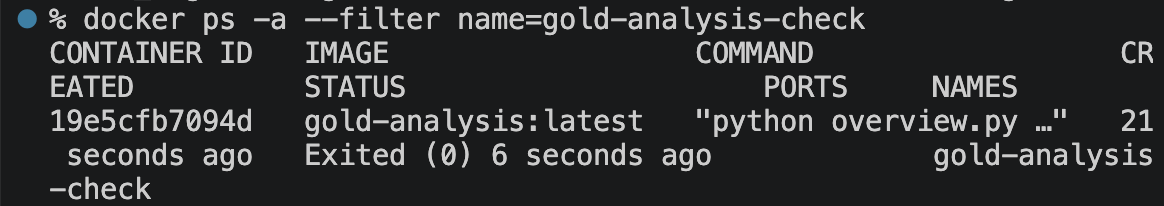
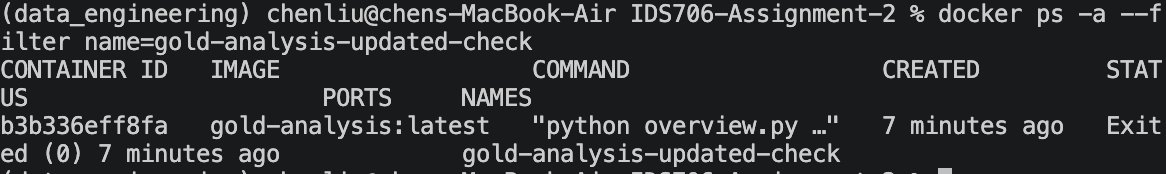
Add daily return analysis, tests, and final project documentation

diff --git a/overview.py b/overview.py
@@ -9,6 +9,7 @@ from gold_analysis import (
     filter_above_average,
     yearly_summary,
     train_and_evaluate,
+    calculate_daily_returns,
 )
 
 
@@ -55,6 +56,42 @@ def plot_model_results(results, output_path):
     ax.legend()
     ax.grid(alpha=0.3)
 
+    fig.tight_layout()
+    fig.savefig(output_path, dpi=300)
+    plt.close(fig)
+
+
+def plot_return_correlations(correlations, output_path):
+    """Save a heatmap of daily price return correlations."""
+    fig, ax = plt.subplots(figsize=(7, 6))
+    heatmap = ax.imshow(
+        correlations.to_numpy(),
+        cmap="RdBu_r",
+        vmin=-1,
+        vmax=1,
+    )
+
+    labels = correlations.columns.tolist()
+    ax.set_xticks(range(len(labels)))
+    ax.set_xticklabels(labels)
+    ax.set_yticks(range(len(labels)))
+    ax.set_yticklabels(labels)
+
+    for row in range(len(labels)):
+        for column in range(len(labels)):
+            value = correlations.iloc[row, column]
+            text_color = "white" if abs(value) >= 0.6 else "black"
+            ax.text(
+                column,
+                row,
+                f"{value:.3f}",
+                ha="center",
+                va="center",
+                color=text_color,
+            )
+
+    ax.set_title("Daily Price Return Correlations")
+    fig.colorbar(heatmap, ax=ax, label="Pearson correlation")
     fig.tight_layout()
     fig.savefig(output_path, dpi=300)
     plt.close(fig)
@@ -120,6 +157,18 @@ def main():
     print(round(results["intercept"], 3))
 
     args.output_dir.mkdir(parents=True, exist_ok=True)
+    daily_returns = calculate_daily_returns(gold)
+    return_correlations = daily_returns.corr()
+
+    print("\nDaily return correlations:")
+    print(return_correlations.round(3))
+
+    daily_returns.to_csv(args.output_dir / "daily_returns.csv")
+    return_correlations.to_csv(args.output_dir / "daily_return_correlations.csv")
+    plot_return_correlations(
+        return_correlations,
+        args.output_dir / "daily_return_correlations.png",
+    )
     plot_price_trend(gold, args.output_dir / "gld_price_trend.png")
     plot_model_results(results, args.output_dir / "actual_vs_estimated_gld.png")
 

diff --git a/tests/test_gold_analysis.py b/tests/test_gold_analysis.py
@@ -7,6 +7,7 @@ from gold_analysis import (
     filter_above_average,
     yearly_summary,
     train_and_evaluate,
+    calculate_daily_returns,
 )
 
 
@@ -173,3 +174,54 @@ def test_model_rejects_too_small_training_or_test_set(train_fraction):
 
     with pytest.raises(ValueError, match="at least two rows"):
         train_and_evaluate(data, train_fraction=train_fraction)
+
+
+def test_daily_returns_calculates_correctly_and_sorts_dates():
+    data = make_data(
+        ["2020-01-03", "2020-01-01", "2020-01-02"],
+        [99.0, 100.0, 110.0],
+    )
+    data["Date"] = pd.to_datetime(data["Date"])
+    original = data.copy(deep=True)
+
+    result = calculate_daily_returns(data)
+
+    assert result.index.tolist() == [
+        pd.Timestamp("2020-01-02"),
+        pd.Timestamp("2020-01-03"),
+    ]
+    assert result.columns.tolist() == ["GLD", "SPX", "USO", "SLV"]
+
+    # GLD moves from 100 to 110 (+10%), then to 99 (-10%).
+    assert result["GLD"].tolist() == pytest.approx([0.1, -0.1])
+
+    # The other prices are constant in this test dataset.
+    for column in ["SPX", "USO", "SLV"]:
+        assert result[column].tolist() == pytest.approx([0.0, 0.0])
+
+    pd.testing.assert_frame_equal(data, original)
+
+
+@pytest.mark.parametrize("row_count", [0, 1])
+def test_daily_returns_rejects_insufficient_data(row_count):
+    data = make_data(
+        pd.date_range("2020-01-01", periods=row_count),
+        [100.0] * row_count,
+    )
+
+    with pytest.raises(ValueError, match="At least two observations"):
+        calculate_daily_returns(data)
+
+
+@pytest.mark.parametrize(
+    "invalid_price",
+    [0.0, -1.0, float("nan"), float("inf"), float("-inf")],
+)
+def test_daily_returns_rejects_invalid_prices(invalid_price):
+    data = make_data(
+        pd.date_range("2020-01-01", periods=3),
+        [100.0, invalid_price, 110.0],
+    )
+
+    with pytest.raises(ValueError, match="finite, positive, and non-missing"):
+        calculate_daily_returns(data)

diff --git a/tests/test_system.py b/tests/test_system.py
@@ -5,7 +5,7 @@ import re
 import shutil
 import subprocess
 import sys
-
+import pandas as pd
 import matplotlib.image as mpimg
 import pytest
 
@@ -75,6 +75,7 @@ def test_complete_analysis_pipeline(tmp_path):
     for filename in [
         "gld_price_trend.png",
         "actual_vs_estimated_gld.png",
+        "daily_return_correlations.png",
     ]:
         image_path = tmp_path / filename
 
@@ -85,3 +86,26 @@ def test_complete_analysis_pipeline(tmp_path):
         assert image.shape[0] > 0
         assert image.shape[1] > 0
         assert image[:, :, :3].std() > 0, f"Blank chart: {filename}"
+    returns = pd.read_csv(
+        tmp_path / "daily_returns.csv",
+        index_col="Date",
+        parse_dates=["Date"],
+    )
+    correlations = pd.read_csv(
+        tmp_path / "daily_return_correlations.csv",
+        index_col=0,
+    )
+
+    source = pd.read_csv(PROJECT_ROOT / "gold_data_2015_25.csv")
+    assert len(returns) == len(source) - 1
+    assert returns.index.is_monotonic_increasing
+    assert returns.columns.tolist() == ["GLD", "SPX", "USO", "SLV"]
+    assert not returns.isna().any().any()
+
+    pd.testing.assert_frame_equal(
+        correlations,
+        returns.corr(),
+        check_exact=False,
+        atol=1e-10,
+        rtol=1e-10,
+    )

diff --git a/gold_analysis.py b/gold_analysis.py
@@ -98,3 +98,22 @@ def train_and_evaluate(data, train_fraction=0.8):
         ),
         "intercept": model.intercept_,
     }
+
+
+def calculate_daily_returns(data):
+    """Calculate price returns between consecutive trading observations."""
+    columns = ["GLD", "SPX", "USO", "SLV"]
+    ordered = data.sort_values("Date").set_index("Date")
+    prices = ordered[columns]
+
+    if len(prices) < 2:
+        raise ValueError("At least two observations are required.")
+
+    if (
+        prices.isna().any().any()
+        or prices.isin([float("inf"), float("-inf")]).any().any()
+        or (prices <= 0).any().any()
+    ):
+        raise ValueError("Prices must be finite, positive, and non-missing.")
+
+    return prices.pct_change(fill_method=None).iloc[1:]

diff --git a/README.md b/README.md
@@ -97,6 +97,34 @@ The R-squared value indicates that the model explained approximately 10% of the 
 
 ![Actual versus estimated GLD prices](actual_vs_estimated_gld.png)
 
+## Additional Analysis: Daily Price Returns
+
+The original analysis examines price levels, which may share long-term trends. This extension investigates whether GLD, SPX, USO, and SLV also move together between consecutive trading observations.
+
+Price returns are calculated as:
+
+```text
+Return = (Current price / Previous price) - 1
+```
+
+Observations are sorted by date before calculation. The first observation is excluded because it has no preceding price. These are price-change returns; dividends are not separately incorporated.
+
+![Daily price return correlations](daily_return_correlations.png)
+
+The Pearson correlations with GLD are:
+
+| Variable | Correlation with GLD |
+|----------|---------------------|
+| SLV | 0.761 |
+| USO | 0.089 |
+| SPX | 0.046 |
+
+GLD and SLV show a strong positive association in their daily price changes. GLD has much weaker linear associations with SPX and USO over the full sample.
+
+These results describe contemporaneous relationships, not causation or forecasting performance. Full-period correlations can also conceal changes across market conditions.
+
+The script exports `daily_returns.csv` and `daily_return_correlations.csv`, allowing the calculations behind the chart to be inspected.
+
 ## Main Findings
 
 - GLD displayed an overall upward trend between 2015 and 2025.
@@ -123,7 +151,7 @@ python -m pip install -r requirements.txt
 Run the analysis:
 
 ```bash
-python overview.py
+python3 overview.py --output-dir outputs
 ```
 
 ## Files
@@ -187,7 +215,47 @@ startup costs, computer workload, and normal timing variation.
 
 ## Testing and Continuous Integration
 
-The project is tested with Python 3.12 and pytest. The test suite contains eight tests: four core functionality tests, three edge-case tests, and one complete system test.
+The project uses Python 3.12 and pytest. All 23 test cases passed locally after the refactoring and daily return analysis were added.
+
+### Test Coverage
+
+- CSV loading and required-column validation.
+- Data conversion, chronological sorting, duplicate removal, and invalid-data handling.
+- Above-average filtering and yearly summary statistics.
+- Model predictions on a dataset with a known linear relationship.
+- Chronological training/test splitting and preservation of input data.
+- Invalid split ratios and insufficient training or test observations.
+- Daily return calculations using known percentage changes.
+- Insufficient observations and missing, infinite, zero, or negative prices.
+- An end-to-end run checking the original model metrics, three readable non-blank charts, and two CSV outputs.
+- Agreement between exported correlations and correlations recalculated from the exported returns.
+
+### Run Checks Locally
+
+Install dependencies:
+
+```bash
+python3 -m pip install -r requirements-dev.txt
+```
+
+Check formatting and code quality:
+
+```bash
+python3 -m black --check overview.py gold_analysis.py polars_comparison.py tests
+python3 -m flake8 overview.py gold_analysis.py polars_comparison.py tests
+```
+
+Run tests:
+
+```bash
+python3 -m pytest -v
+```
+
+### GitHub Actions
+
+The workflow in `.github/workflows/tests.yml` runs automatically on pushes and pull requests and also supports manual execution. It installs development dependencies, checks formatting with Black, runs flake8, and executes pytest.
+
+The CI status badge at the top of this README links to workflow results.
 
 ### Core Functionality Tests
 
@@ -263,12 +331,15 @@ The volume mount saves generated charts to the local `outputs/docker` directory:
 
 - `gld_price_trend.png`
 - `actual_vs_estimated_gld.png`
+- `daily_return_correlations.png`
+- `daily_returns.csv`
+- `daily_return_correlations.csv`
 
 The container exits after the analysis finishes. The `--rm` option removes the container afterward, while the charts remain in the local output directory.
 
 ### Verification and Learning
 
-I built the image locally and ran a named container, `gold-analysis-check`. Its status was `Exited (0)`, indicating successful completion, and both chart files were saved to the mounted directory on my Mac.
+I rebuilt the image after adding the daily return analysis and ran a named container, `gold-analysis-updated-check`. Its status was `Exited (0)`, indicating successful completion. Three charts and two CSV files were saved to the mounted directory, `outputs/docker-updated`, on my Mac.
 
 I practiced pulling a base image, building and running a project image, listing images with `docker images`, and checking container status with `docker ps -a`. I learned how a volume mount preserves analysis outputs outside the container.
 
@@ -279,3 +350,48 @@ I practiced pulling a base image, building and running a project image, listing 
 <img src="screenshots/docker-run.png" alt="Container exited successfully and generated both chart files" width="750">
 
 <img src="screenshots/docker-outputs.png" alt="Chart files generated by the container" width="750">
+
+## Data Cleaning and Outlier Policy
+
+The input dataset contains 2,666 observations. Initial inspection found no missing values or duplicate rows.
+
+The preprocessing function:
+
+- Checks required columns when loading the CSV.
+- Converts dates and numeric fields, treating invalid values as missing.
+- Removes rows with missing values in required columns.
+- Removes duplicate rows and sorts observations chronologically.
+- Raises an error if no valid observations remain.
+
+Daily return calculation additionally rejects missing, infinite, zero, or negative prices and requires at least two observations.
+
+The analysis does not automatically remove extreme but valid price observations or returns. Large changes may contain relevant market information, so magnitude alone is not used as a deletion criterion. However, individual extreme observations have not been independently verified against the original market data, and this remains a limitation. The reported correlations use the retained observations without trimming or winsorization.
+
+The 2025 sample contains only 153 observations and should not be treated as a complete calendar year.
+
+## Refactoring and Code Quality
+
+The analysis was reorganized to separate reusable calculations, visualization, and script execution.
+
+- Model training and evaluation were extracted into `train_and_evaluate()` in `gold_analysis.py`.
+- Plotting was separated into dedicated functions.
+- A `main()` function and an execution guard prevent the analysis from running automatically when the module is imported.
+- Command-line arguments configure the input CSV and output directory.
+- Figures are saved and closed, supporting automated and containerized execution.
+- Black standardizes formatting, and flake8 checks Python code.
+
+These changes make individual calculations easier to test and allow the same analysis to run locally or in Docker.
+
+Verification included 23 passing local tests, preservation of the original rounded model metrics (MAE 31.27 and R² 0.10), and successful execution of the updated Docker image. The container exited with code 0 and generated three charts and two CSV files.
+
+The earlier refactoring commit is available [here](https://github.com/chen04301121-cmyk/IDS706-Assignment-2/commit/00940fe).
+
+### Refactoring Evidence
+
+The following screenshots show the extraction of plotting logic, removal of inline model training, and import of the reusable model function.
+
+<img src="screenshots/refactoring-plot-function.png" alt="Plotting logic extracted into a function" width="750">
+
+<img src="screenshots/refactoring-model-before.png" alt="Original inline model training removed from overview.py" width="750">
+
+<img src="screenshots/refactoring-imports.png" alt="Reusable model function imported into overview.py" width="750">
